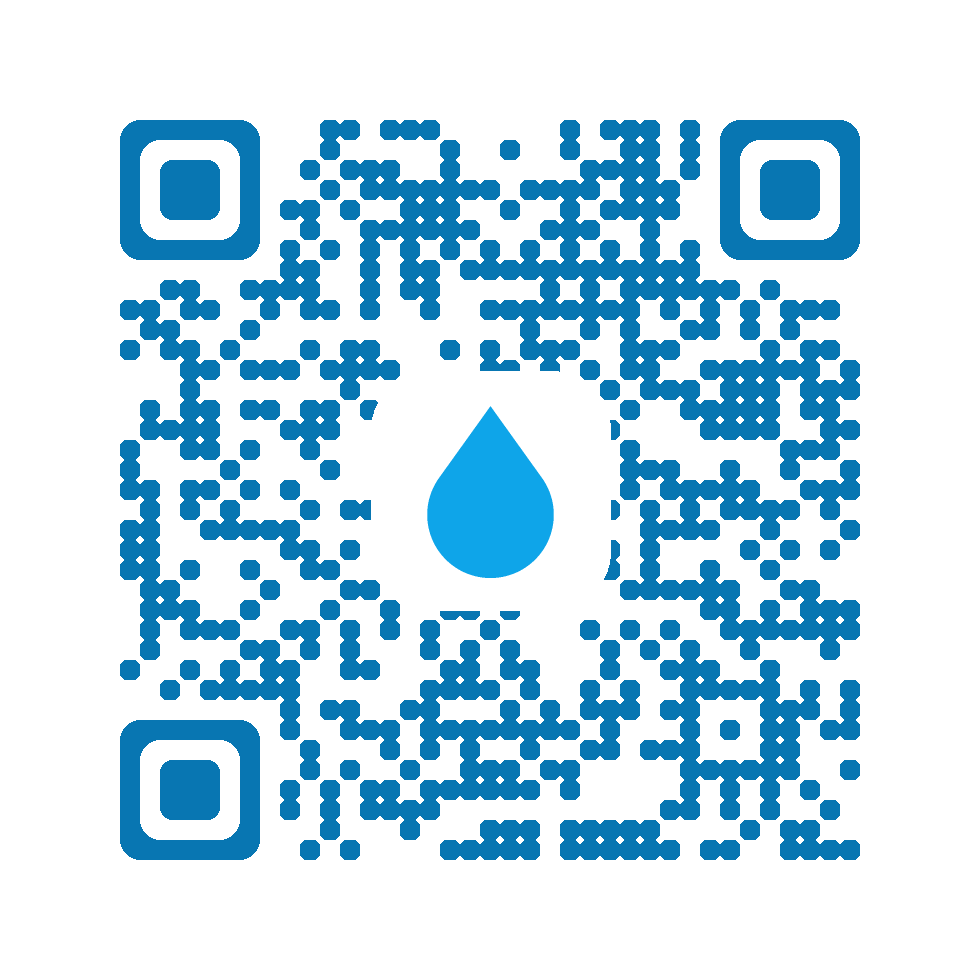
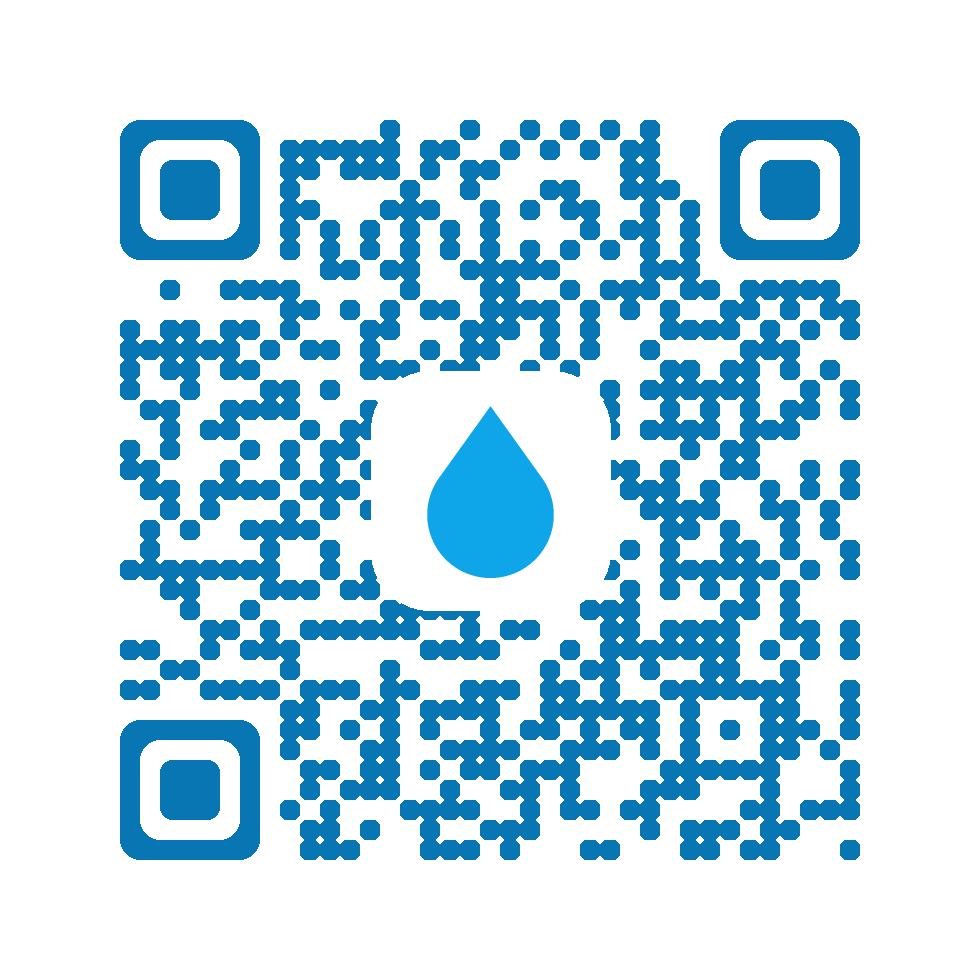
chore: 分享物料与 og 信息指向 GitHub Pages 地址
- 二维码/分享卡片按 https://yuliaying.github.io/niaolema-app/ 重新生成（双解码器验证通过）
- index.html 的 og:image / og:url / twitter:image 更新为 Pages 地址
- README 增加线上体验地址与备用地址说明

Changed region(s): [[0.1224, 0.1224, 0.8878, 0.8878]]

diff --git a/index.html b/index.html
@@ -12,12 +12,12 @@
 <meta property="og:site_name" content="尿了吗">
 <meta property="og:title" content="尿了吗 · 排尿健康记录">
 <meta property="og:description" content="随手一记，看懂自己的规律。一键记录、自动统计，数据只存在你的手机上。无需下载安装，手机打开即用。">
-<meta property="og:image" content="https://niaolema-app.app.workbuddy.host/assets/icon-512.png">
-<meta property="og:url" content="https://niaolema-app.app.workbuddy.host/">
+<meta property="og:image" content="https://yuliaying.github.io/niaolema-app/assets/icon-512.png">
+<meta property="og:url" content="https://yuliaying.github.io/niaolema-app/">
 <meta name="twitter:card" content="summary_large_image">
 <meta name="twitter:title" content="尿了吗 · 排尿健康记录">
 <meta name="twitter:description" content="随手一记，看懂自己的规律。数据只存在你的手机上，打开即用。">
-<meta name="twitter:image" content="https://niaolema-app.app.workbuddy.host/assets/share-card.png">
+<meta name="twitter:image" content="https://yuliaying.github.io/niaolema-app/assets/share-card.png">
 <link rel="icon" type="image/png" href="./assets/icon-192.png">
 <link rel="apple-touch-icon" href="./assets/apple-touch-icon.png">
 <link rel="manifest" href="./manifest.json">

diff --git a/README.md b/README.md
@@ -4,7 +4,9 @@
 
 一个**单文件、零依赖、可离线**使用的排尿健康记录应用。用浏览器打开即用，也可以「添加到主屏幕」当原生 App 用。所有数据只保存在你自己的设备上，不会上传到任何服务器。
 
-**在线体验**：https://niaolema-app.app.workbuddy.host/
+**在线体验**：https://yuliaying.github.io/niaolema-app/ （GitHub Pages，可直接在微信中打开）
+
+备用地址：https://niaolema-app.app.workbuddy.host/ （该域名会拦截微信内置浏览器）
 
 ---
 
